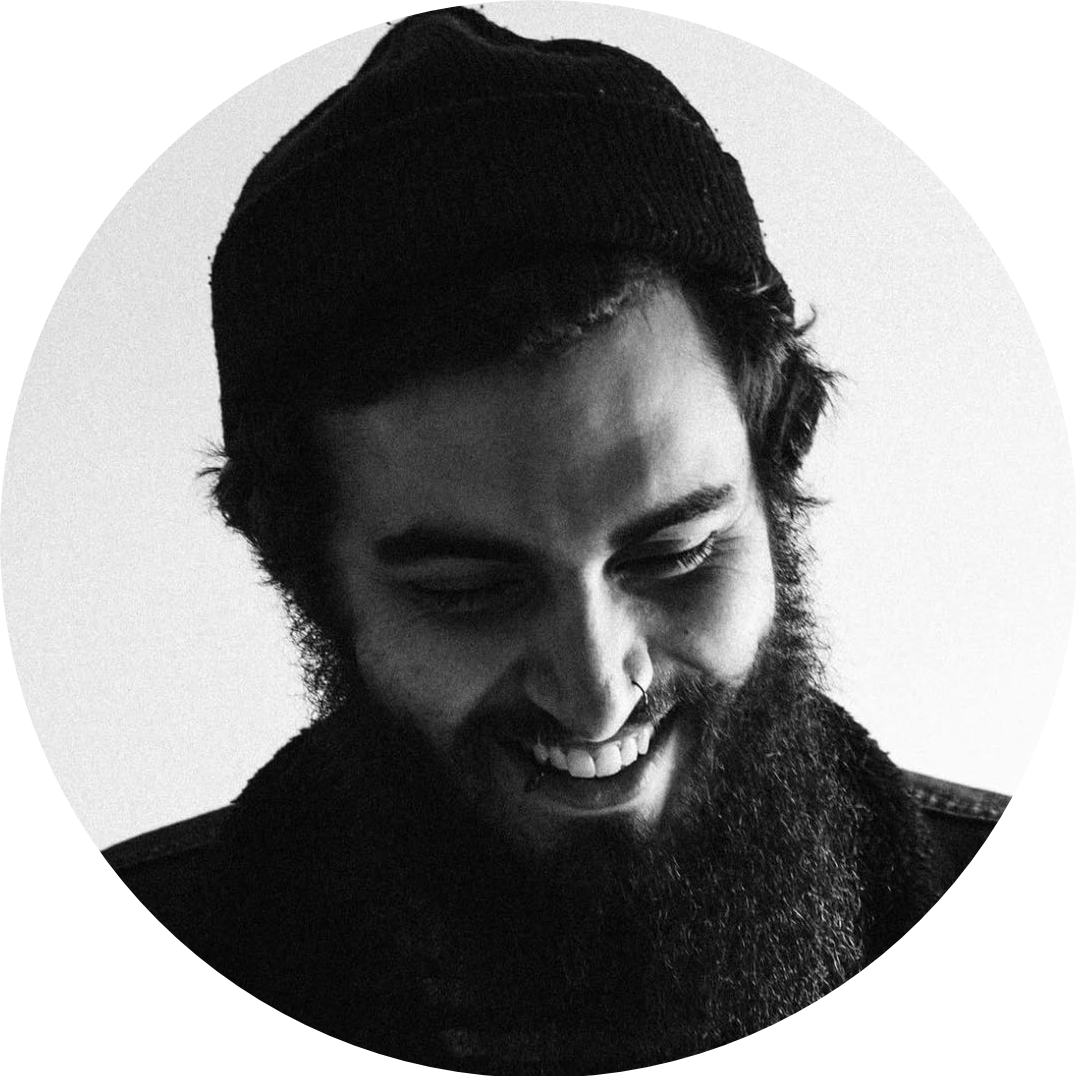
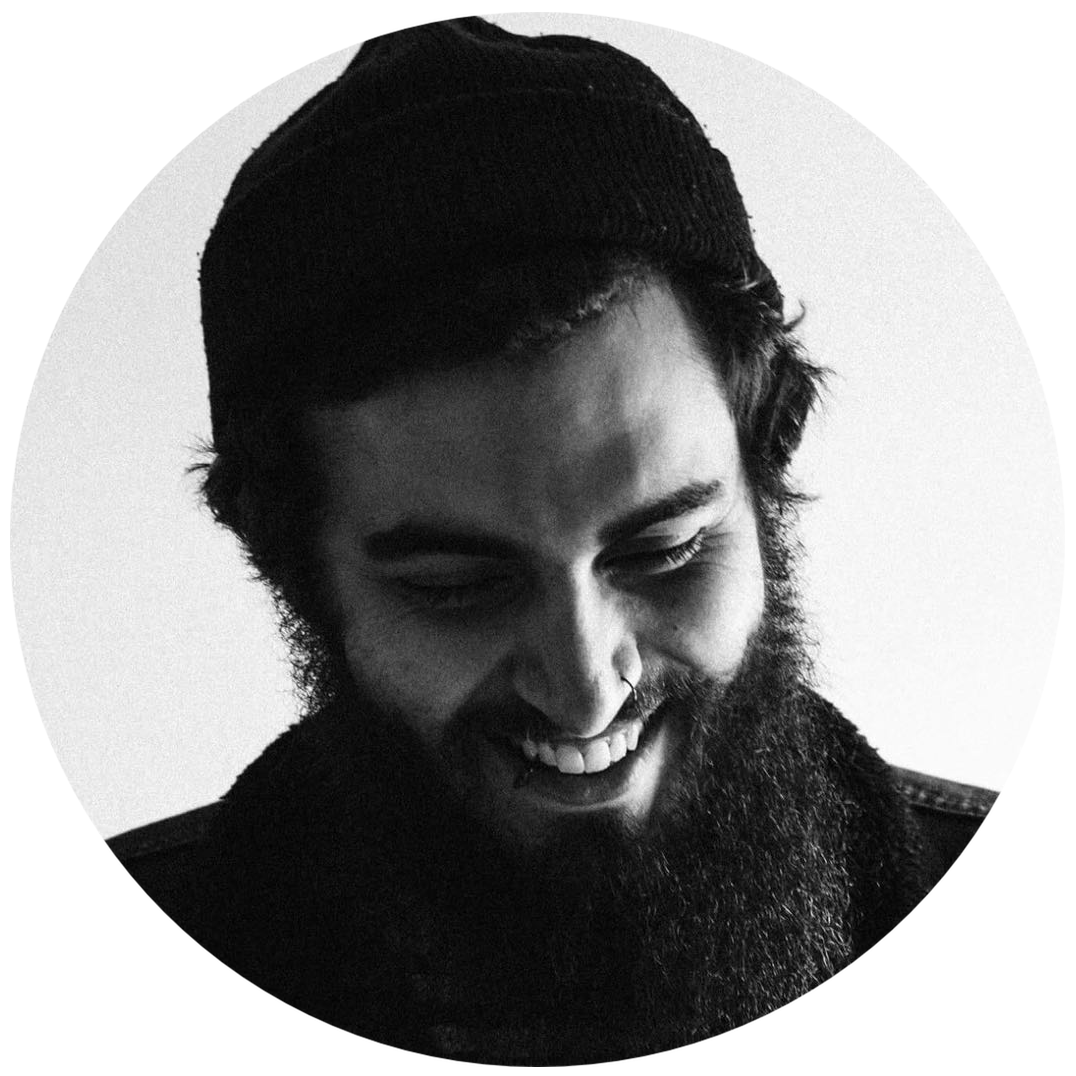
...

diff --git a/styles.css b/styles.css
@@ -113,7 +113,7 @@ nav a:link, nav a:visited, nav a:active {
 /* Who is Rhys? */
 .whoisrhys {
   background-color: #4C586F;
-  padding: 3%;
+  padding: 1%;
 }
 
 .my-face {
@@ -132,7 +132,7 @@ nav a:link, nav a:visited, nav a:active {
 
 @media screen and (max-width: 600px) {
   .whoisrhys {
-    padding: 10%;
+    padding: 13%;
   }
 }
 
